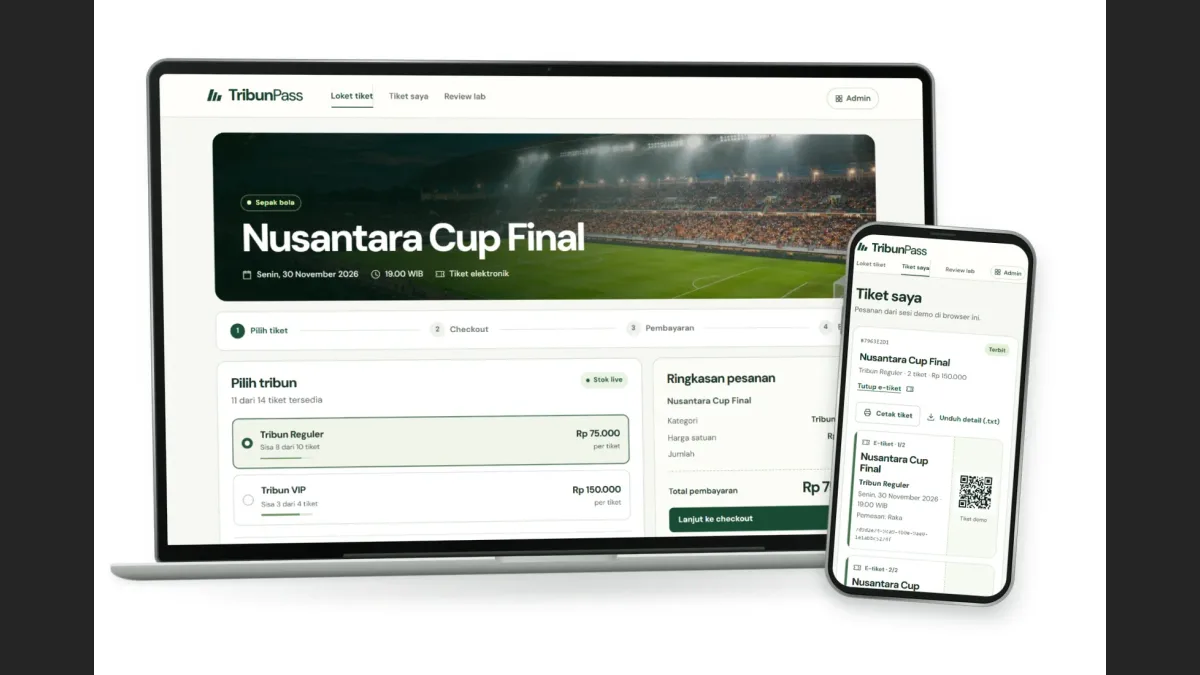
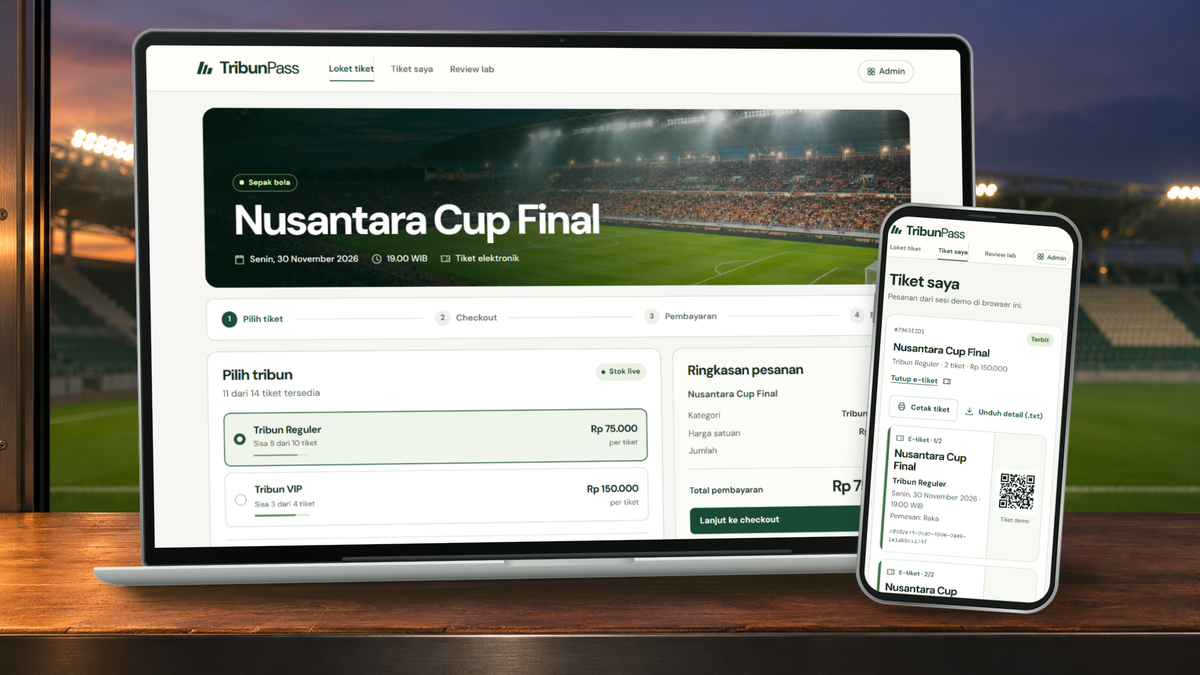
Show the TribunPass ticket office and reservation lifecycle

diff --git a/src/content/projects.ts b/src/content/projects.ts
@@ -22,16 +22,16 @@ const entries: Project[] = [
       stack: ['Go', 'PostgreSQL', 'Next.js', 'REST API', 'k6', 'Docker'],
     },
     links: { live: 'https://tribunpass.rifqisetiawan.my.id/', github: TRIBUN },
-    cover: '/media/tribunpass/cover-1200.webp',
+    cover: '/media/tribunpass/cover-1200.webp?v=e599db053b63',
     media: [
-      full('/media/tribunpass/01.webp', 'TribunPass match-day page listing ticket categories and remaining stock', 3 / 2),
+      full('/media/tribunpass/ticket-office.webp', 'TribunPass ticket office showing Reguler and VIP availability for the Nusantara Cup Final', 1836 / 1180),
       full('/media/tribunpass/02.webp', 'TribunPass checkout with a five-minute payment countdown for two tickets', 16 / 10),
       full('/media/tribunpass/03.webp', 'TribunPass organizer dashboard showing sales and capacity', 16 / 10),
     ],
     how: [
       {
         heading: 'A two-ticket checkout',
-        body: 'A fan books 2 Reguler tickets at Rp75,000 each. Stock drops from 10 to 8, and the fan has 5 minutes to pay Rp150,000. Paying issues two tickets, each with its own QR code.',
+        body: 'In the demo, a fan books 2 Reguler tickets at Rp75,000 each. Stock drops from 10 to 8, and the fan has 5 minutes to pay Rp150,000. A successful simulated payment issues two tickets, each with its own QR code.',
       },
       {
         heading: 'Reserving a group atomically',
@@ -50,6 +50,10 @@ const entries: Project[] = [
         body: 'Four simultaneous requests for 4 tickets each against 10 places: two groups got 8 tickets and 2 remained. Replaying a payment for 3 tickets on two servers gave one paid order, 3 ticket IDs and Rp225,000 revenue.',
       },
     ],
+    architecture: {
+      src: '/media/tribunpass/ticket-flow.png',
+      caption: 'A two-ticket reservation from stock check to settlement. Payment issues both e-tickets, while expiry releases both places back into stock.',
+    },
     metrics: [
       { value: '8 / 2', label: 'sold / left, 4 x 4 requests vs 10 places' },
       { value: '5 min', label: 'hold before the group is released' },

diff --git a/tests/unit/content.test.ts b/tests/unit/content.test.ts
@@ -11,9 +11,9 @@ describe('content', () => {
     expect(content.projects.map((p) => p.slug)).toEqual(slugs);
   });
 
-  it('versions both KMS cover URLs when either image changes', () => {
-    const project = bySlug('agentic-ai-kms');
-    const paths = [1200, 2000].map(width => `/media/agentic-ai-kms/cover-${width}.webp`);
+  it.each(['agentic-ai-kms', 'tribunpass'])('versions both %s cover URLs when either image changes', slug => {
+    const project = bySlug(slug);
+    const paths = [1200, 2000].map(width => `/media/${slug}/cover-${width}.webp`);
     const hash = createHash('sha256');
     for (const path of paths) hash.update(readFileSync(`public${path}`));
     const revision = hash.digest('hex').slice(0, 12);
@@ -64,7 +64,7 @@ describe('content', () => {
 
   it('includes architecture on the diagram projects and omits Snowflake identifiers', () => {
     const withArch = content.projects.filter((p) => p.architecture).map((p) => p.slug);
-    expect(withArch).toEqual(['techhiring', 'national-food-lakehouse', 'wellmom', 'smokeguard', 'tel-u-cup', 'agentic-ai-kms', 'partpilot']);
+    expect(withArch).toEqual(['tribunpass', 'techhiring', 'national-food-lakehouse', 'wellmom', 'smokeguard', 'tel-u-cup', 'agentic-ai-kms', 'partpilot']);
     const s = JSON.stringify(content);
     expect(s).not.toMatch(/snowflakecomputing|\.snowflake\.com/i);
     expect(s).not.toMatch(/snowflake\W{0,3}(account|identifier|locator)/i);
